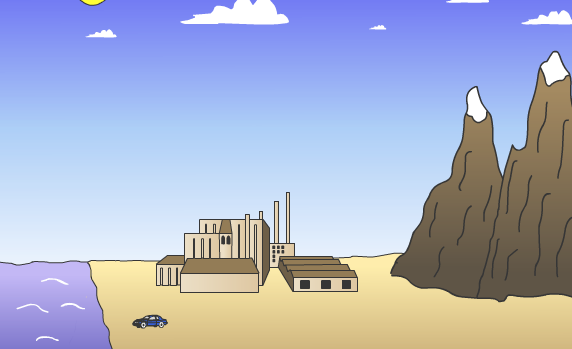
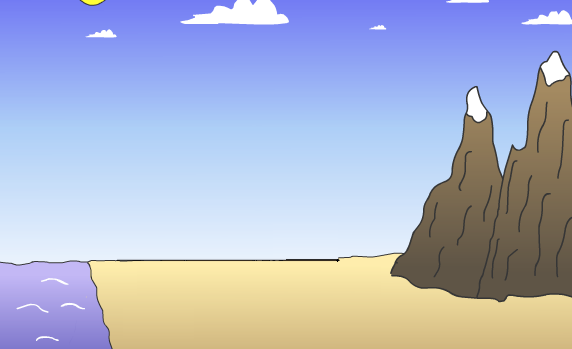
Air Pollution: Use agents for factories and cars

Changed region(s): [[0.2378, 0.5444, 0.6241, 0.8596], [0.208, 0.8883, 0.2972, 0.9456]]

diff --git a/air-pollution/index.html b/air-pollution/index.html
@@ -17,6 +17,10 @@
     <script src="js/air-pollution-controls.coffee" type="text/coffeescript"></script>
   </head>
   <body>
+    <div id="sprites">
+      <img id="car-sprite" src="img/air-pollution-car.png" />
+      <img id="factory-sprite" src="img/air-pollution-factory.png" />
+    </div>
     <div id="controls">
       <div id="playback" class="button-set">
         <button id="reset-button">

diff --git a/air-pollution/css/air-pollution.css b/air-pollution/css/air-pollution.css
@@ -1,3 +1,9 @@
+#sprites {
+  position: absolute;
+  top: 10px;
+  left: 10px;
+}
+
 #model-viewport {
   position: absolute;
   top: 5px;
